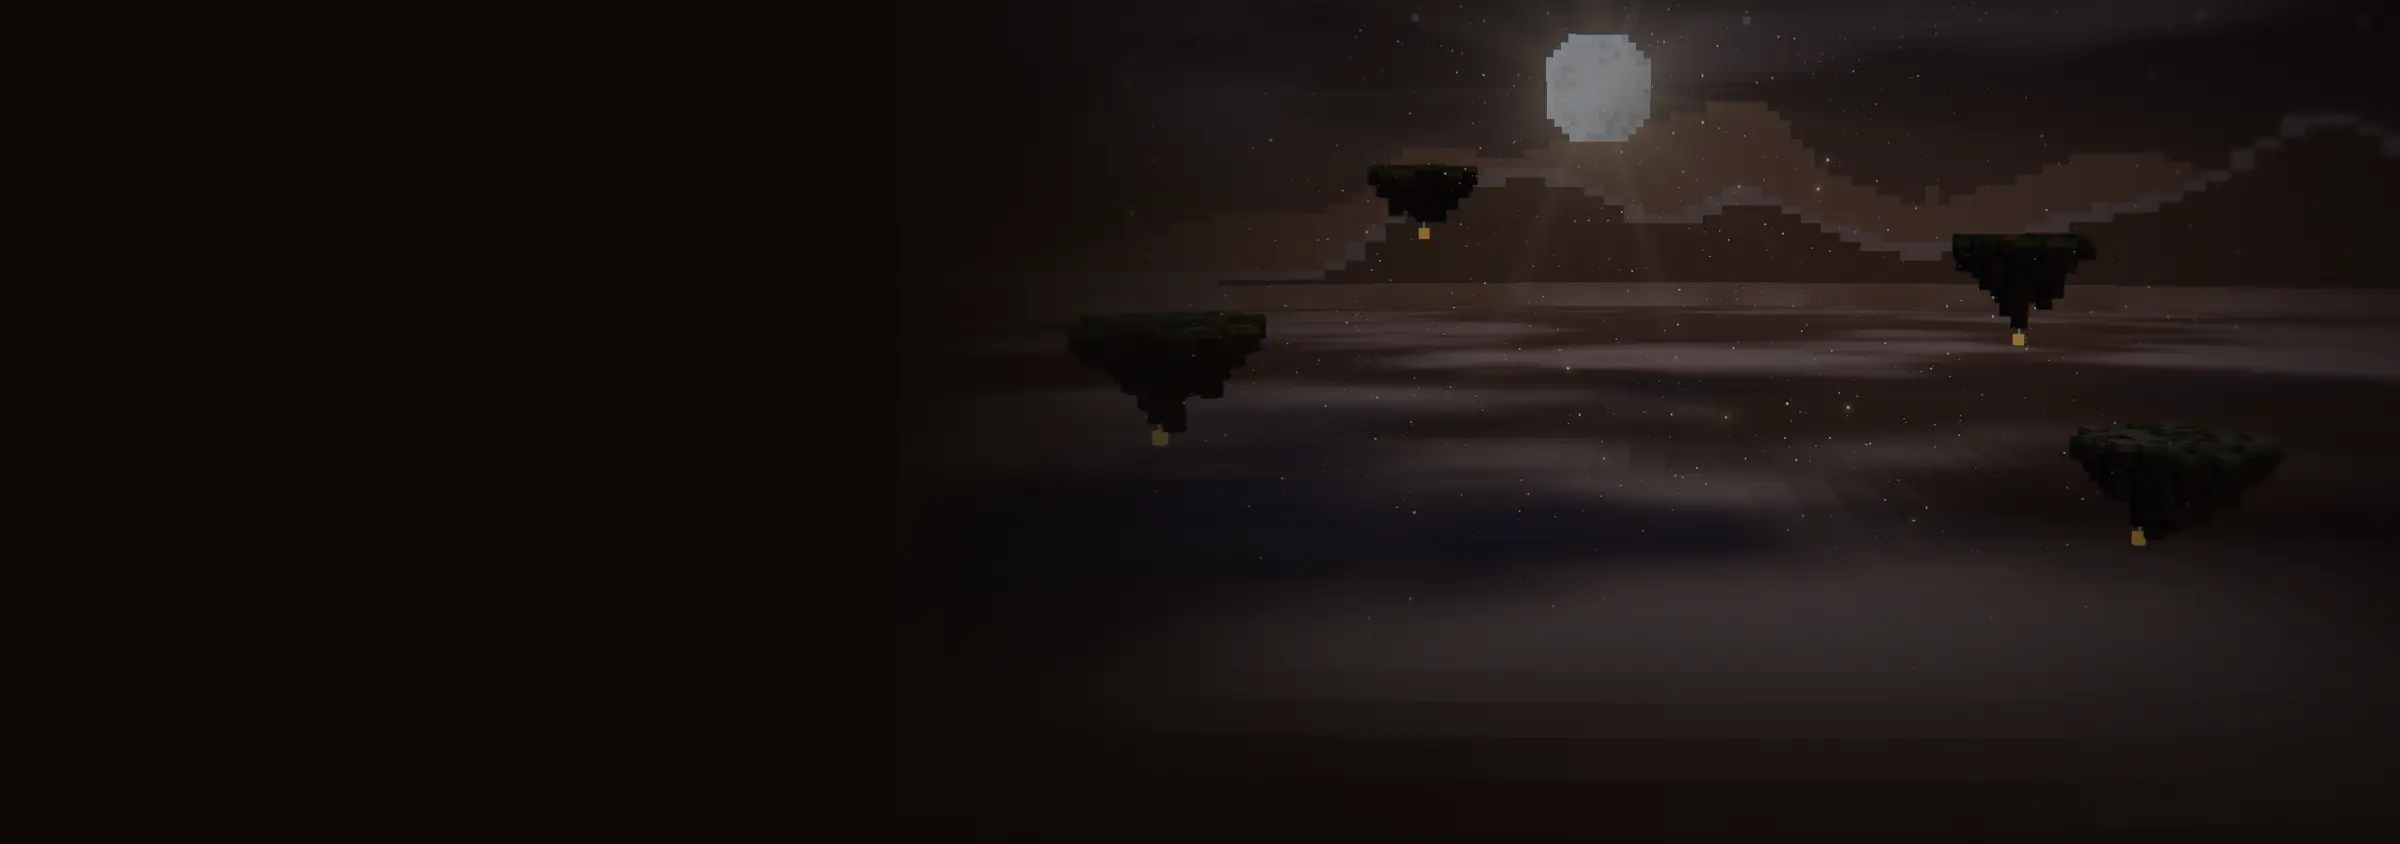
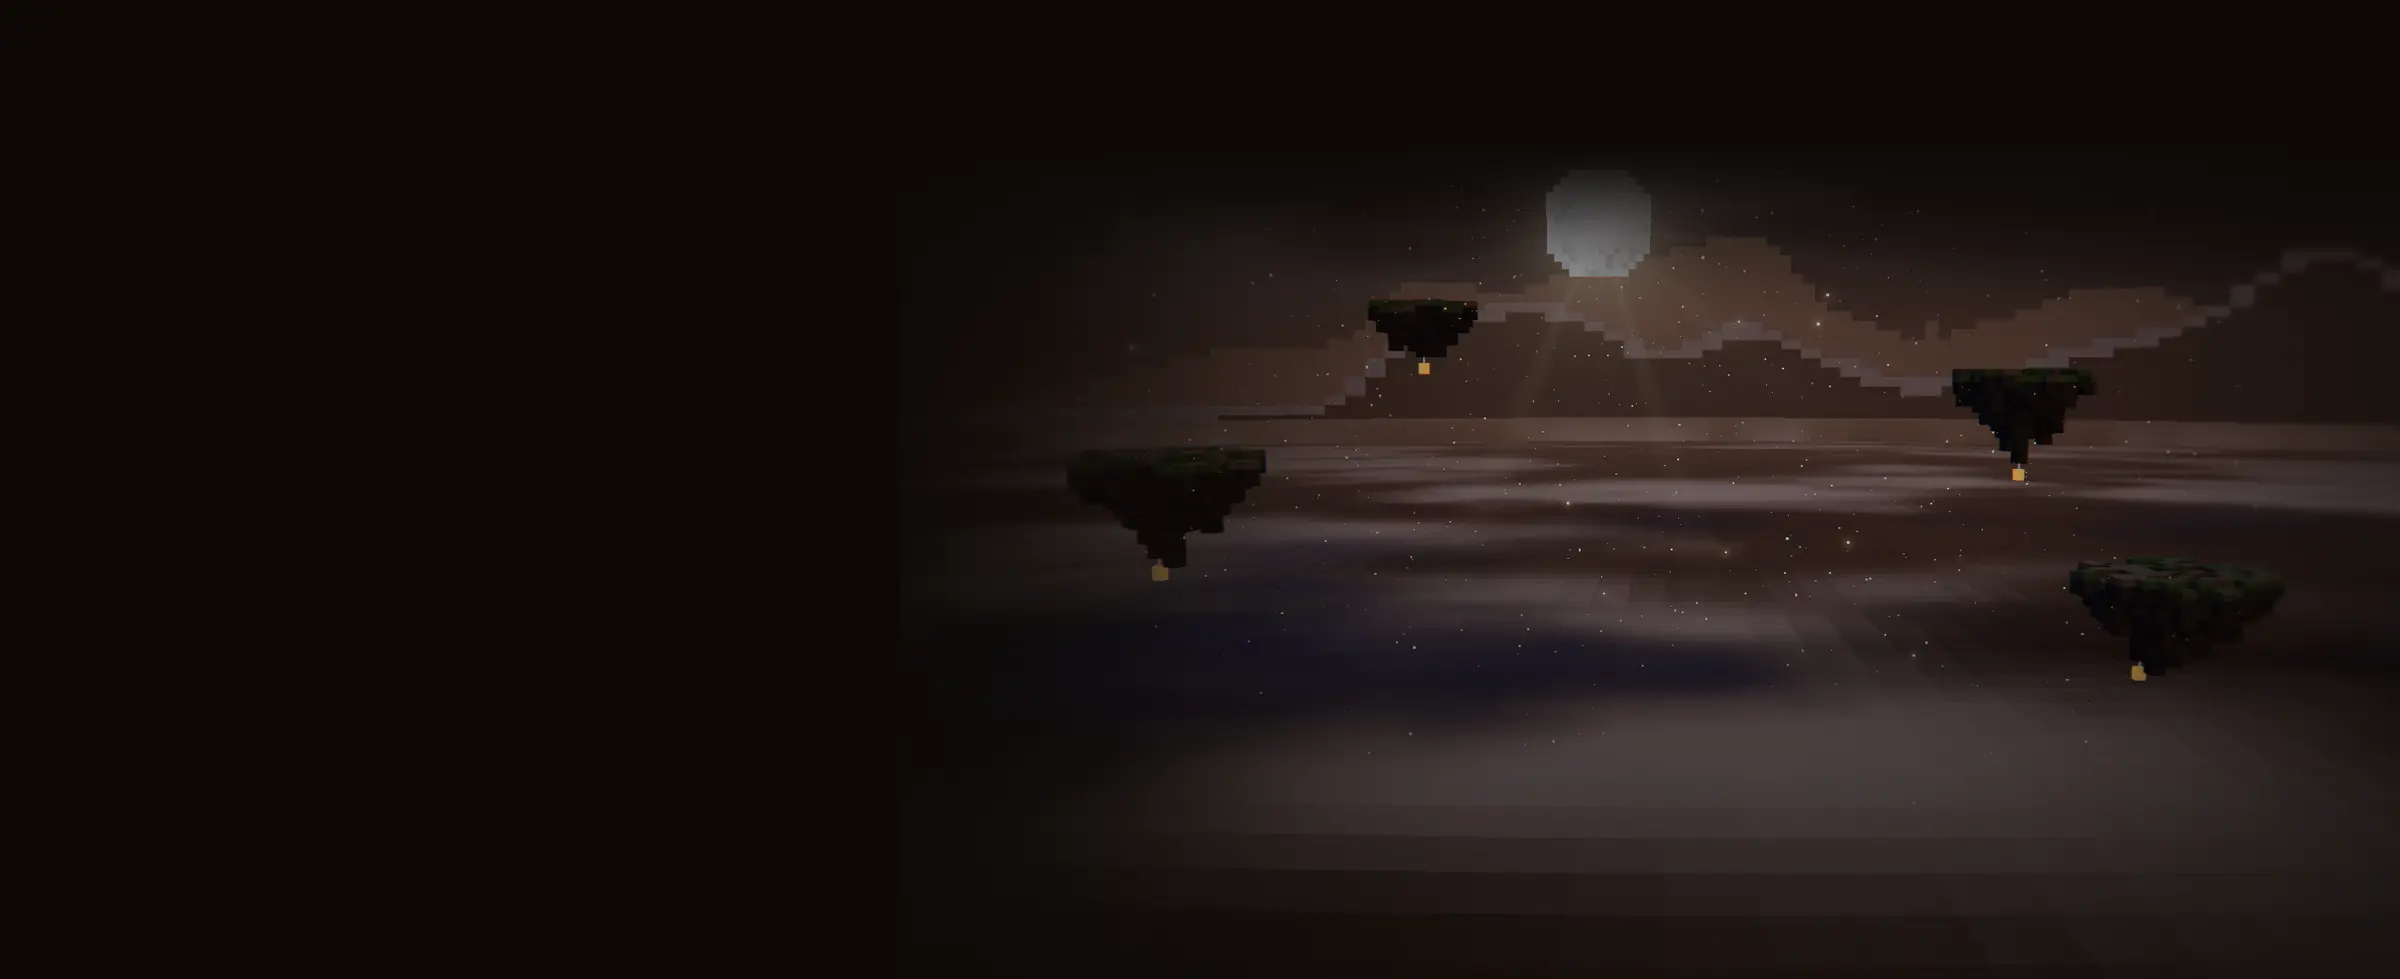
One header on every page (the intro's), brighter sky with the moon below the header, equal picker buttons with a fighter caption, /start steps read heading-text-example, admin preview joins its card, smaller phone strip, intro ladder clears the towers

Changed region(s): [[0.4375, 0.0, 1.0, 0.7085], [0.5625, 0.7393, 0.8125, 0.8626], [0.4688, 0.4929, 0.5, 0.5237]]

diff --git a/public/dashboard.css b/public/dashboard.css
@@ -1389,7 +1389,7 @@ body:has(> .scene-sky.is-ready)::before { display: none; }
 @media (prefers-reduced-motion: no-preference) {
   @supports (animation-timeline: scroll()) {
     .scene-sky.is-ready { transition: none; animation: sky-dim linear both; animation-timeline: scroll(root); animation-range: 0 1400px; }
-    @keyframes sky-dim { from { opacity: 1; } to { opacity: .5; } }
+    @keyframes sky-dim { from { opacity: 1; } to { opacity: .75; } }
   }
 }
 /* /start: the four steps scroll past a scene that follows them, from the arena overhead to the ranking pillars */
@@ -1443,3 +1443,42 @@ body:has(> .scene-sky.is-ready)::before { display: none; }
   .gate-inside { padding: 176px var(--space-3) var(--space-3); border-radius: var(--radius);
     background: linear-gradient(to bottom, rgb(12 9 7 / 0) 30%, rgb(12 9 7 / .6)), url("/assets/scene/arena-top-800.webp") 50% 35% / cover no-repeat var(--bg); }
 }
+/* Round 26. One header on every page, the intro's: no bar or rule, the cream wordmark at the page edge */
+.topbar { background: none; border-bottom: 0; }
+.topbar-inner { max-width: none; padding-inline: clamp(16px, 3.2vw, 48px); }
+.topbar .brand { color: var(--text); }
+.topbar .brand .mark { fill: var(--accent); }
+@media (min-width: 481px) {
+  .topbar-inner { min-height: 76px; }
+  .topbar .brand { font-size: 22px; gap: 10px; }
+  .topbar .brand .mark { width: 22px; height: 22px; }
+}
+/* the picker and the builder are where "Pick your fighter" leads, so they drop it */
+.topbar nav a.nav-cta[aria-current] { display: none; }
+/* the picker: both channels get the same outlined button, filled on hover; rows read larger */
+.landing .channel-list li:first-child .channel-go { background: none; border-color: var(--trim); color: var(--accent-hover); }
+.landing .channel-list li .channel:hover .channel-go, .landing .channel-list li .channel:focus-visible .channel-go { background: var(--accent); border-color: var(--accent); color: var(--on-accent); }
+@media (min-width: 901px) {
+  .landing .channel-list { max-width: 560px; }
+  .landing-inner > * { max-width: 560px; }
+  .landing .channel { padding-block: var(--space-5); }
+  .landing .channel-name { font-size: var(--text-2xl); }
+}
+.landing-who { position: absolute; right: clamp(16px, 3.2vw, 48px); bottom: var(--space-6); z-index: 1; margin: 0; padding: var(--space-1) var(--space-3);
+  background: rgb(13 9 6 / .8); border-left: 2px solid var(--trim); border-radius: var(--radius-sm); color: var(--text); font-size: var(--text-sm); }
+.landing-who:empty { display: none; }
+@media (max-width: 760px) { .landing-who { display: none; } .landing-inner { padding-bottom: var(--space-5); } }
+/* /start: the lead keeps a reading width beside the invite card; each step reads heading, text, then its example */
+.hero-copy .lead { max-width: 52ch; }
+.step-grid .step-mock { margin: var(--space-3) 0 0; }
+@media (min-width: 961px) { .story .step-grid > li { padding-block: var(--space-6); } }
+/* admin gate: the locked controls are the bottom of the arena card, not a panel floating on it */
+@media (min-width: 761px) {
+  .gate-inside { padding: 0; overflow: hidden; display: flex; flex-direction: column; justify-content: flex-end; }
+  .gate-inside .gate-peek { margin: 0; border: 0; border-top: 1px solid var(--border-strong); border-radius: 0; padding: var(--space-4) var(--space-5); background: rgb(13 9 6 / .94); }
+}
+/* builder on a phone: once you scroll into the tabs, the stuck preview shrinks to a strip */
+@media (max-width: 480px) { html.compact .hero-card.has-3d .showcase { height: 120px; } }
+/* with no rule under the header, the picker's arena fades in from the top instead of starting on a hard edge */
+@media (min-width: 901px) { .landing-3d { mask-image: linear-gradient(to right, transparent 0%, rgba(0,0,0,.08) 12%, rgba(0,0,0,.3) 24%, rgba(0,0,0,.62) 36%, rgba(0,0,0,.88) 48%, #000 60%), linear-gradient(to bottom, transparent, #000 96px, #000 78%, transparent); -webkit-mask-image: linear-gradient(to right, transparent 0%, rgba(0,0,0,.08) 12%, rgba(0,0,0,.3) 24%, rgba(0,0,0,.62) 36%, rgba(0,0,0,.88) 48%, #000 60%), linear-gradient(to bottom, transparent, #000 96px, #000 78%, transparent); } }
+@media (max-width: 900px) { .landing-3d { mask-image: linear-gradient(to bottom, transparent, #000 48px, #000 62%, transparent); -webkit-mask-image: linear-gradient(to bottom, transparent, #000 48px, #000 62%, transparent); } }

diff --git a/start/index.html b/start/index.html
@@ -40,10 +40,10 @@
     <p class="muted">You need OBS and the StreamElements bot in your chat. After you sign in, the Stream setup page checks off each step as it starts working.</p>
     <div class="story">
     <ol class="step-grid">
-      <li><div class="step-mock" aria-hidden="true"><span>Browser Source · URL</span><span class="field">pixfray.xyz/<wbr>overlay.html?<wbr>channel=you</span><span>Width 1920 · Height 1080</span></div><strong>Add the overlay to OBS</strong> Make it a Browser Source at 1920×1080. The setup page gives you the link.</li>
-      <li><div class="step-mock" aria-hidden="true"><span class="row"><span class="mod">Duel module</span><span class="switch"></span></span><span class="row"><span class="mod">PixFray commands</span><span class="switch on"></span></span><span>One bot answers each duel</span></div><strong>Turn off the Duel module</strong> It's a built-in StreamElements module. With it off, only one bot answers duel commands.</li>
-      <li><div class="step-mock" aria-hidden="true"><span class="row"><span class="mod">!challenge</span><span class="btn-mock">Copy reply</span></span><span class="line"><b>kai</b> !challenge @rin</span><span class="line"><b>StreamElements</b> @kai challenges @rin! @rin, type !fight to fight.</span></div><strong>Paste 7 commands into StreamElements</strong> Each reply is ready to copy: <code>!challenge</code>, <code>!fight</code>, <code>!decline</code>, <code>!rematch</code>, <code>!elo</code>, <code>!ranks</code> and <code>!fray</code>. You can rename them.</li>
-      <li class="optional"><div class="step-mock" aria-hidden="true"><span class="row"><span class="mod">Your moderators can</span><span class="eg">Example</span></span><span class="row"><span>Pause duels</span><span class="switch on"></span></span><span class="row"><span>Reset health</span><span class="btn-mock">Reset</span></span></div><strong>Let your moderators help <span class="badge">Optional</span></strong> They can manage fighters, ranks and settings.</li>
+      <li><strong>Add the overlay to OBS</strong> Make it a Browser Source at 1920×1080. The setup page gives you the link.<div class="step-mock" aria-hidden="true"><span>Browser Source · URL</span><span class="field">pixfray.xyz/<wbr>overlay.html?<wbr>channel=you</span><span>Width 1920 · Height 1080</span></div></li>
+      <li><strong>Turn off the Duel module</strong> It's a built-in StreamElements module. With it off, only one bot answers duel commands.<div class="step-mock" aria-hidden="true"><span class="row"><span class="mod">Duel module</span><span class="switch"></span></span><span class="row"><span class="mod">PixFray commands</span><span class="switch on"></span></span><span>One bot answers each duel</span></div></li>
+      <li><strong>Paste 7 commands into StreamElements</strong> Each reply is ready to copy: <code>!challenge</code>, <code>!fight</code>, <code>!decline</code>, <code>!rematch</code>, <code>!elo</code>, <code>!ranks</code> and <code>!fray</code>. You can rename them.<div class="step-mock" aria-hidden="true"><span class="row"><span class="mod">!challenge</span><span class="btn-mock">Copy reply</span></span><span class="line"><b>kai</b> !challenge @rin</span><span class="line"><b>StreamElements</b> @kai challenges @rin! @rin, type !fight to fight.</span></div></li>
+      <li class="optional"><strong>Let your moderators help <span class="badge">Optional</span></strong> They can manage fighters, ranks and settings.<div class="step-mock" aria-hidden="true"><span class="row"><span class="mod">Your moderators can</span><span class="eg">Example</span></span><span class="row"><span>Pause duels</span><span class="switch on"></span></span><span class="row"><span>Reset health</span><span class="btn-mock">Reset</span></span></div></li>
     </ol>
     <figure class="story-stage" aria-hidden="true"><canvas id="story-scene"></canvas><figcaption id="story-cap">Your overlay draws the arena over your game.</figcaption></figure>
     </div>

diff --git a/src/dashboard.js b/src/dashboard.js
@@ -700,15 +700,18 @@ async function pickChannel() {
 }
 // On wide screens the picker's island is the intro's live arena, not a picture: each channel's top fighter
 // stands on it, and hovering or focusing a row brings that channel's fighter on. Phones show it as a banner over the heading.
-const landing = { arena: null, show: null, first: null, fallback: null };
+const landing = { arena: null, show: null, first: null, fallback: null, labels: new Map() };
 function liveLanding() {
   if (navigator.connection?.saveData || matchMedia("(prefers-reduced-motion: reduce)").matches) return;
   import("./fighter3d.js").then(({ createFighter3D }) => {
     const canvas = h("canvas", { class: "landing-3d", "aria-hidden": "true" });
     $("#pick").prepend(canvas);
     try { landing.arena = createFighter3D(canvas, { zoom: 0.9 }); } catch { canvas.remove(); return; }
+    const cap = h("p", { class: "landing-who", "aria-hidden": "true" });
+    canvas.after(cap);
     $("#pick").classList.add("is-live");
-    landing.show = (entry) => { const look = composeLook(entry); if (look) landing.arena.set(look); else whenImage(entry.url, () => landing.show(entry)); };
+    // the caption names whose fighter stands on the island, so hovering a row visibly brings that channel's fighter on
+    landing.show = (entry) => { cap.textContent = landing.labels.get(entry) || ""; const look = composeLook(entry); if (look) landing.arena.set(look); else whenImage(entry.url, () => landing.show(entry)); };
     if (landing.first || landing.fallback) landing.show(landing.first || landing.fallback);
   }).catch(() => {});
 }
@@ -730,7 +733,7 @@ async function channelRanks(channel, link, crew, meta) {
     meta.textContent = "No ranked duels yet. The top spot is open.";
     // the open spot: a character picked from the channel name, so each empty channel brings a different one on stage
     const people = new Set(CHARACTER_GROUPS[0].ids), all = [...byId.values()].filter((e) => people.has(e.id)), first = all[[...channel].reduce((n, ch) => (n * 31 + ch.charCodeAt(0)) >>> 0, 7) % Math.max(1, all.length)] || byId.values().next().value;
-    if (first) add(first, "sprite is-open");
+    if (first) { add(first, "sprite is-open"); landing.labels.set(first, "The open spot in " + channel + "'s chat"); }
     if (first && !landing.fallback) { landing.fallback = first; if (!landing.first) landing.show?.(first); }
     if (first) for (const ev of ["pointerenter", "focus"]) link.addEventListener(ev, () => landing.show?.(first));
     return;
@@ -738,6 +741,7 @@ async function channelRanks(channel, link, crew, meta) {
   meta.replaceChildren("Top fighter: " + (rows[0].displayName || rows[0].username) + " · ", h("span", { class: "nowrap" }, rows[0].elo + " Elo"));
   const top = byId.get(rows[0].avatar);
   if (top) {
+    landing.labels.set(top, (rows[0].displayName || rows[0].username) + ", top of " + channel + "'s chat");
     if (!landing.first) { landing.first = top; landing.show?.(top); }
     for (const ev of ["pointerenter", "focus"]) link.addEventListener(ev, () => landing.show?.(top));
   }

diff --git a/src/intro/intro.css b/src/intro/intro.css
@@ -236,7 +236,6 @@ h2 { font-size: clamp(32px, 3.7vw, 54px); line-height: 1.04; }
   .odds th, .odds td { padding-top: 5px; padding-bottom: 5px; }
   .board { margin-top: var(--space-3); }
   .board li { padding: 3px 0; font-size: 14px; }
-  .board li:nth-child(n+4) { display: none; }   /* top three on a phone; Full list has the rest */
   .board .rec { font-size: 12px; }
   h2 { margin-bottom: var(--space-2); }
   .copy p { font-size: 15px; line-height: 1.45; }
@@ -251,7 +250,7 @@ h2 { font-size: clamp(32px, 3.7vw, 54px); line-height: 1.04; }
 }
 
 /* the labels on the corners of the 3D stream frame */
-.tag-obs { transform: translate(0, -100%); font-size: 13px; color: var(--text-2); padding-bottom: 6px; }
+.tag-obs { transform: translate(0, 8px); font-size: 13px; color: var(--text-2); padding: 4px 8px; background: rgb(13 9 6 / .8); border-radius: var(--radius-sm); }
 .tag-obs b { color: var(--accent); font-weight: 600; margin-right: 6px; }
 
 /* side shade behind the copy column, faded in by the frame loop */
@@ -276,3 +275,6 @@ h2 { font-size: clamp(32px, 3.7vw, 54px); line-height: 1.04; }
 .edge-fade.bottom { bottom: 0; height: 132px; background: linear-gradient(to top, color-mix(in srgb, var(--night) 92%, transparent) 30%, transparent); }
 body:not(.scrolled) .edge-fade.bottom { opacity: 0; }
 .edge-fade { transition: opacity .3s ease; }
+/* the ladder list keeps clear of the towers, and its figures stay legible where a tower runs behind them */
+.board { max-width: 400px; }
+.board li { text-shadow: 0 1px 3px rgb(0 0 0 / .8); }

diff --git a/src/intro/main.js b/src/intro/main.js
@@ -98,7 +98,7 @@ document.addEventListener('focusin', (e) => {
 });
 // the rail follows the nearest chapter; the copy shows only near a chapter's centre, so text never sits on a scene change
 function setChapter(c) {
-  const i = Math.round(c), copy = reduced || Math.abs(c - i) < 0.36 ? i : -1;
+  const i = Math.round(c), copy = reduced || Math.abs(c - i) < (innerWidth < innerHeight ? 0.4 : 0.36) ? i : -1;   // phones: the copy sits under the scene, so it can stay on longer
   if (copy !== activeCopy) { activeCopy = copy; sections.forEach((s, k) => s.classList.toggle('is-on', k === copy)); }
   if (i === activeChapter) return;
   activeChapter = i;
@@ -702,7 +702,7 @@ function frame() {
     frame3d.mesh.instanceMatrix.needsUpdate = true;
     frame3d.edgeMat.opacity = range(fr, 0.8, 1);
   }
-  const fy = frame3d.group.position.y + frame3d.h / 2 + frame3d.unit;
+  const fy = frame3d.group.position.y - frame3d.h / 2 - frame3d.unit;   // under the frame's bottom-left corner, clear of the moon
   placeTag(T.obsL, v.set(-frame3d.w / 2 - frame3d.unit, fy, 0.4), fr > 0.97);
 
   // ambience
